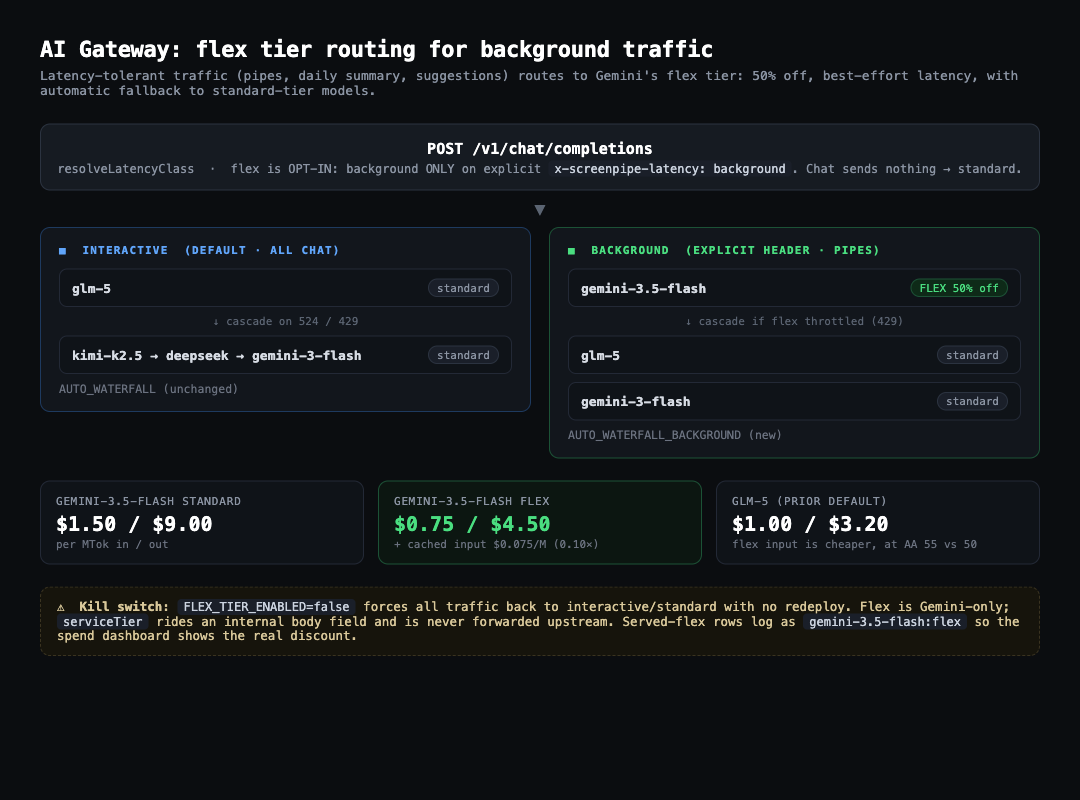
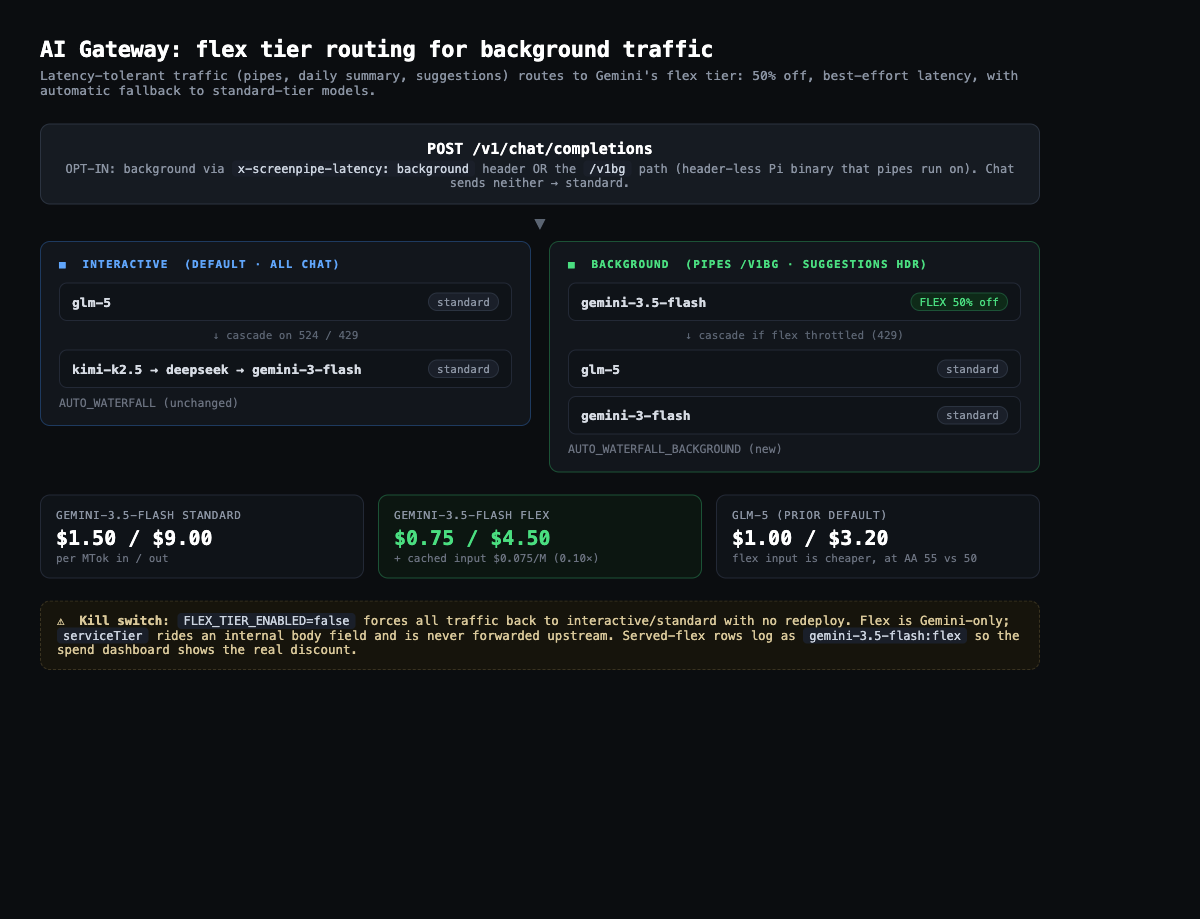
feat(ai-gateway): wire pipe + suggestions senders to the flex tier
Makes background traffic actually reach the flex tier (the prior commit was
the gateway lane only). Two senders, both Gemini-only by effect:

- Pipes: PiExecutor (which only ever runs pipes — scheduled/run-now, all
  latency-tolerant) now defaults its cloud base URL to SCREENPIPE_API_URL_BG
  (`.../v1bg`). The Pi binary can't set custom headers, so the background
  signal rides the URL path. The gateway strips the `/v1bg` prefix and forces
  the background latency class. Interactive agents can opt out via
  with_api_url(SCREENPIPE_API_URL). Verified pipe-only: every PiExecutor
  construction (engine, app, CLI) feeds a PipeManager; no interactive use.
- Suggestions (suggestions.rs): background desktop feature, calls cloud
  directly, so it sends `x-screenpipe-latency: background` outright.

Gateway: resolveLatencyClass gains a pathBackground arg; index.ts detects the
`/v1bg/*` prefix, rewrites to `/v1`, and passes the flag. The kill switch
(FLEX_TIER_ENABLED=false) still overrides both the header and the path.

daily-summary.tsx is on-device Apple Intelligence (not cloud), so it's left
alone. Interactive chat (Pi chat loop, standalone chat) sends no signal and
stays standard.

cargo check -p screenpipe-core: clean. bun test: 414 pass.

diff --git a/packages/ai-gateway/src/utils/latency.ts b/packages/ai-gateway/src/utils/latency.ts
@@ -20,13 +20,20 @@ export type LatencyClass = 'interactive' | 'background';
  *   1. FLEX_TIER_ENABLED=false → always interactive (kill switch, no redeploy)
  *   2. x-screenpipe-latency header: 'background'|'flex' → background;
  *      'interactive'|'standard' → interactive
- *   3. default → interactive (no header = treat as user-facing)
+ *   3. pathBackground: the request came in on the /v1bg/* prefix — a header-less
+ *      signal for clients that can't set headers (the Pi binary pipes run on).
+ *   4. default → interactive (no signal = treat as user-facing)
  */
-export function resolveLatencyClass(request: Request, _body: RequestBody, env: Env): LatencyClass {
+export function resolveLatencyClass(
+	request: Request,
+	_body: RequestBody,
+	env: Env,
+	pathBackground = false,
+): LatencyClass {
 	if (String((env as any)?.FLEX_TIER_ENABLED ?? 'true').toLowerCase() === 'false') {
 		return 'interactive';
 	}
 	const hint = request.headers.get('x-screenpipe-latency')?.toLowerCase();
-	if (hint === 'background' || hint === 'flex') return 'background';
+	if (hint === 'background' || hint === 'flex' || pathBackground) return 'background';
 	return 'interactive';
 }

diff --git a/packages/ai-gateway/src/index.ts b/packages/ai-gateway/src/index.ts
@@ -28,7 +28,14 @@ export { RateLimiter };
 // Handler function for the worker
 async function handleRequest(request: Request, env: Env, ctx: ExecutionContext): Promise<Response> {
 	const url = new URL(request.url);
-	const path = url.pathname;
+	let path = url.pathname;
+
+	// Background tier path prefix. Header-less clients (the Pi binary that pipes
+	// run on) can't set x-screenpipe-latency, so background callers hit /v1bg/*.
+	// Strip the prefix to the normal route and force the background class via
+	// resolveLatencyClass(pathBackground) below. Cheaper, best-effort latency.
+	const isBackgroundPath = path.startsWith('/v1bg/');
+	if (isBackgroundPath) path = '/v1' + path.slice('/v1bg'.length);
 
 	// Early test endpoint - before any initialization
 	if (path === '/test') {
@@ -185,7 +192,7 @@ async function handleRequest(request: Request, env: Env, ctx: ExecutionContext):
 			}
 
 			// Route latency-tolerant (background) traffic to the cheaper flex tier.
-			const latency = resolveLatencyClass(request, body, env);
+			const latency = resolveLatencyClass(request, body, env, isBackgroundPath);
 
 			// Add credit info header if paid via credits
 			let response = await handleChatCompletions(body, env, latency);

diff --git a/packages/ai-gateway/src/test/flex-tier.unit.test.ts b/packages/ai-gateway/src/test/flex-tier.unit.test.ts
@@ -39,9 +39,18 @@ describe('resolveLatencyClass', () => {
 		expect(resolveLatencyClass(req({ 'x-screenpipe-latency': 'interactive' }), { ...BODY, stream: false }, {} as Env)).toBe('interactive');
 	});
 
-	it('FLEX_TIER_ENABLED=false forces interactive (kill switch, overrides the header)', () => {
+	it('routes to background on the /v1bg path signal (header-less pipe clients)', () => {
+		// pathBackground=true behaves like the header — for the Pi binary which
+		// cannot set custom headers, so pipes hit /v1bg/chat/completions instead.
+		expect(resolveLatencyClass(req(), { ...BODY }, {} as Env, true)).toBe('background');
+		// pathBackground=false (normal /v1) stays interactive
+		expect(resolveLatencyClass(req(), { ...BODY }, {} as Env, false)).toBe('interactive');
+	});
+
+	it('FLEX_TIER_ENABLED=false forces interactive (kill switch, overrides header AND path)', () => {
 		const env = { FLEX_TIER_ENABLED: 'false' } as unknown as Env;
 		expect(resolveLatencyClass(req({ 'x-screenpipe-latency': 'background' }), { ...BODY, stream: false }, env)).toBe('interactive');
+		expect(resolveLatencyClass(req(), { ...BODY }, env, true)).toBe('interactive');
 	});
 });
 

diff --git a/crates/screenpipe-core/src/agents/pi.rs b/crates/screenpipe-core/src/agents/pi.rs
@@ -20,6 +20,16 @@ const PI_AI_PACKAGE: &str = "@earendil-works/pi-ai@0.75.4";
 const PI_NAMESPACE_DIR: &str = "@earendil-works";
 pub const SCREENPIPE_API_URL: &str = "https://api.screenpipe.com/v1";
 
+/// Background tier base URL for the cloud gateway. Same worker as
+/// `SCREENPIPE_API_URL`, but the `/v1bg` prefix tells the gateway to serve the
+/// request on the cheaper, best-effort Vertex flex tier (it strips the prefix
+/// and forces the background latency class). The Pi binary can't set a custom
+/// header, so pipes signal "background" via this URL. PiExecutor defaults to it
+/// because the executor only ever runs pipes (scheduled / run-now), which are
+/// latency-tolerant by definition. Interactive agents must override with
+/// `with_api_url(SCREENPIPE_API_URL)`.
+pub const SCREENPIPE_API_URL_BG: &str = "https://api.screenpipe.com/v1bg";
+
 /// Bounded retries for provider rate limiting (HTTP 429) in streaming runs.
 const MAX_RATE_LIMIT_RETRIES: usize = 3;
 /// Fallback wait when the 429 payload carries no `reset_in` hint.
@@ -168,10 +178,13 @@ pub struct PiExecutor {
 }
 
 impl PiExecutor {
+    // PiExecutor only ever runs pipes (PipeManager: scheduled + run-now), which
+    // are latency-tolerant, so it defaults to the background/flex base URL. An
+    // interactive consumer must opt out via `with_api_url(SCREENPIPE_API_URL)`.
     pub fn new(user_token: Option<String>) -> Self {
         Self {
             user_token: Arc::new(ArcSwap::new(Arc::new(user_token))),
-            api_url: SCREENPIPE_API_URL.to_string(),
+            api_url: SCREENPIPE_API_URL_BG.to_string(),
             api_auth_key: None,
         }
     }
@@ -184,9 +197,17 @@ impl PiExecutor {
     pub fn with_shared_user_token(user_token: Arc<ArcSwap<Option<String>>>) -> Self {
         Self {
             user_token,
-            api_url: SCREENPIPE_API_URL.to_string(),
+            api_url: SCREENPIPE_API_URL_BG.to_string(),
             api_auth_key: None,
         }
+    }
+
+    /// Override the cloud base URL. Use `SCREENPIPE_API_URL` for an interactive
+    /// agent (standard tier); the constructors default to the background/flex
+    /// `SCREENPIPE_API_URL_BG` since the executor only runs pipes.
+    pub fn with_api_url(mut self, api_url: impl Into<String>) -> Self {
+        self.api_url = api_url.into();
+        self
     }
 
     /// Read the current cloud token. Returns an owned `Option<String>`.

diff --git a/crates/screenpipe-core/src/pipes/mod.rs b/crates/screenpipe-core/src/pipes/mod.rs
@@ -16,7 +16,7 @@ pub mod preset_fallback;
 pub mod sync;
 
 use crate::agents::{
-    pi::{PiExecutor, SCREENPIPE_API_URL},
+    pi::{PiExecutor, SCREENPIPE_API_URL_BG},
     AgentExecutor, ExecutionHandle,
 };
 use anyhow::{anyhow, Result};
@@ -2156,7 +2156,7 @@ impl PipeManager {
             let cloud_token = executor.user_token();
             if let Err(e) = PiExecutor::ensure_pi_config(
                 cloud_token.as_deref(),
-                SCREENPIPE_API_URL,
+                SCREENPIPE_API_URL_BG,
                 run_provider.as_deref(),
                 Some(&run_model),
                 run_provider_url.as_deref(),
@@ -2658,7 +2658,7 @@ impl PipeManager {
             if config.agent == "pi" {
                 if let Err(e) = PiExecutor::ensure_pi_config(
                     None,
-                    SCREENPIPE_API_URL,
+                    SCREENPIPE_API_URL_BG,
                     run_provider.as_deref(),
                     Some(&run_model),
                     run_provider_url.as_deref(),
@@ -3712,7 +3712,7 @@ impl PipeManager {
                         let cloud_token = executor.user_token();
                         if let Err(e) = PiExecutor::ensure_pi_config(
                             cloud_token.as_deref(),
-                            SCREENPIPE_API_URL,
+                            SCREENPIPE_API_URL_BG,
                             provider.as_deref(),
                             Some(&model),
                             provider_url.as_deref(),

diff --git a/apps/screenpipe-app-tauri/src-tauri/src/suggestions.rs b/apps/screenpipe-app-tauri/src-tauri/src/suggestions.rs
@@ -1467,6 +1467,8 @@ async fn generate_ai_suggestions(
         client
             .post(format!("{}/chat/completions", SCREENPIPE_CLOUD_API))
             .header("Authorization", format!("Bearer {}", config.token))
+            // Suggestions run in the background (no user waiting) → flex tier.
+            .header("x-screenpipe-latency", "background")
             .json(&serde_json::json!({
                 "model": "auto",
                 "messages": [